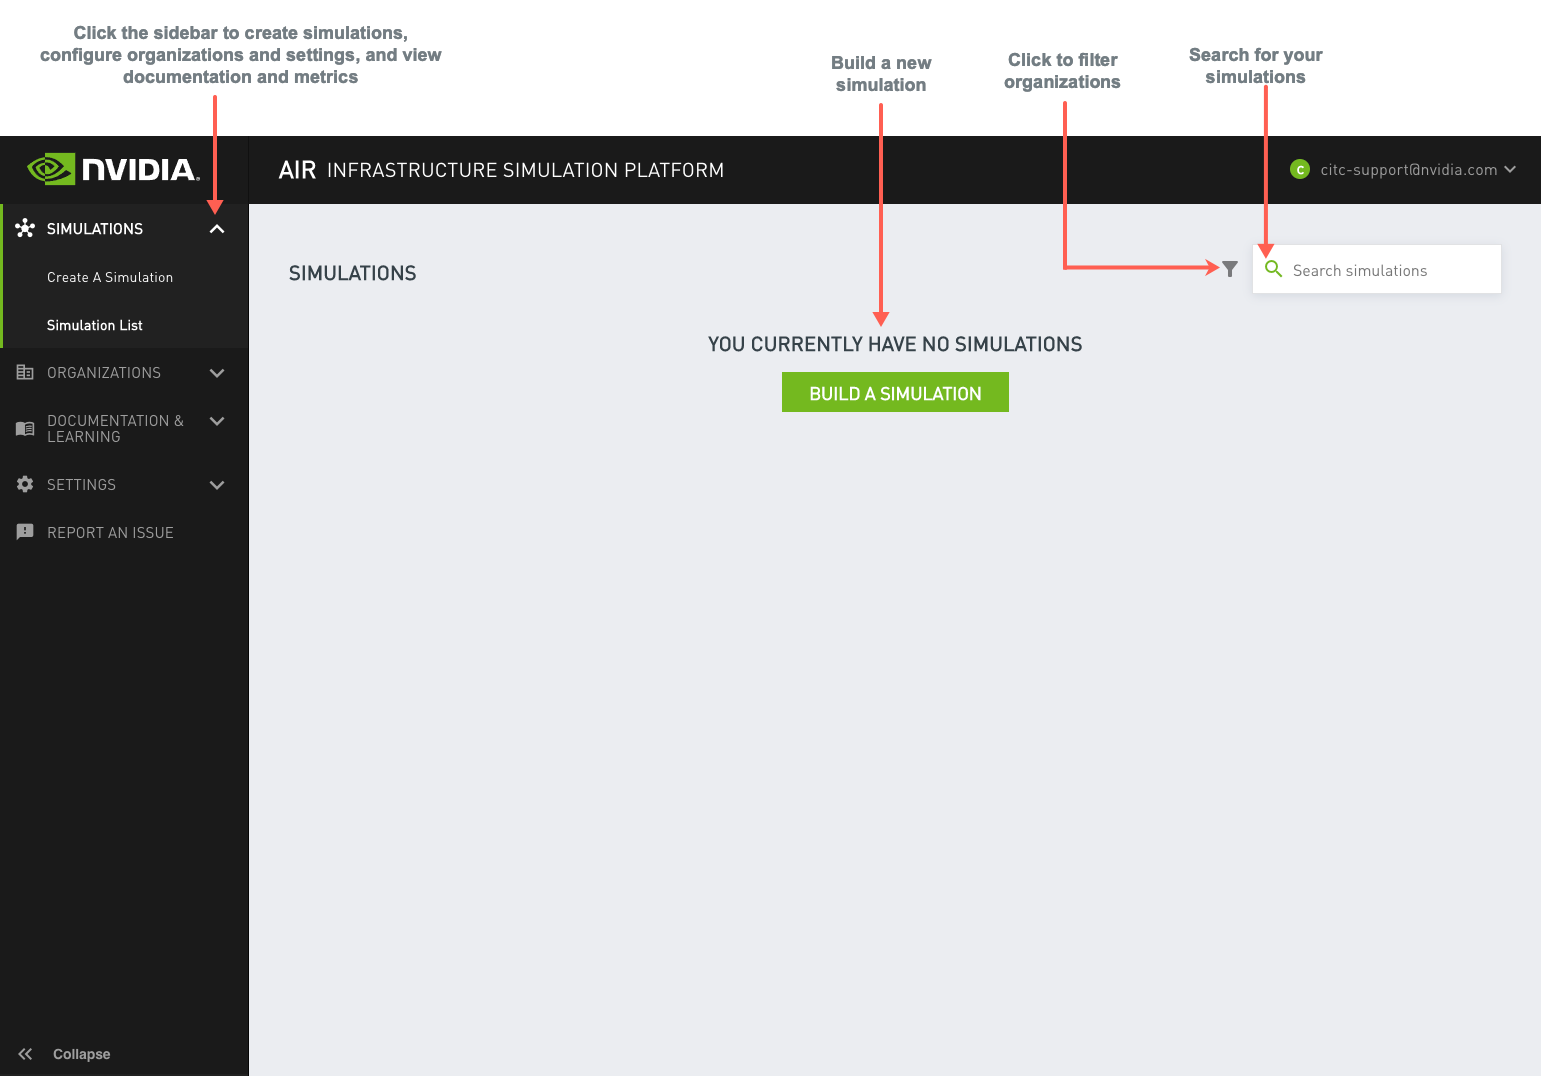
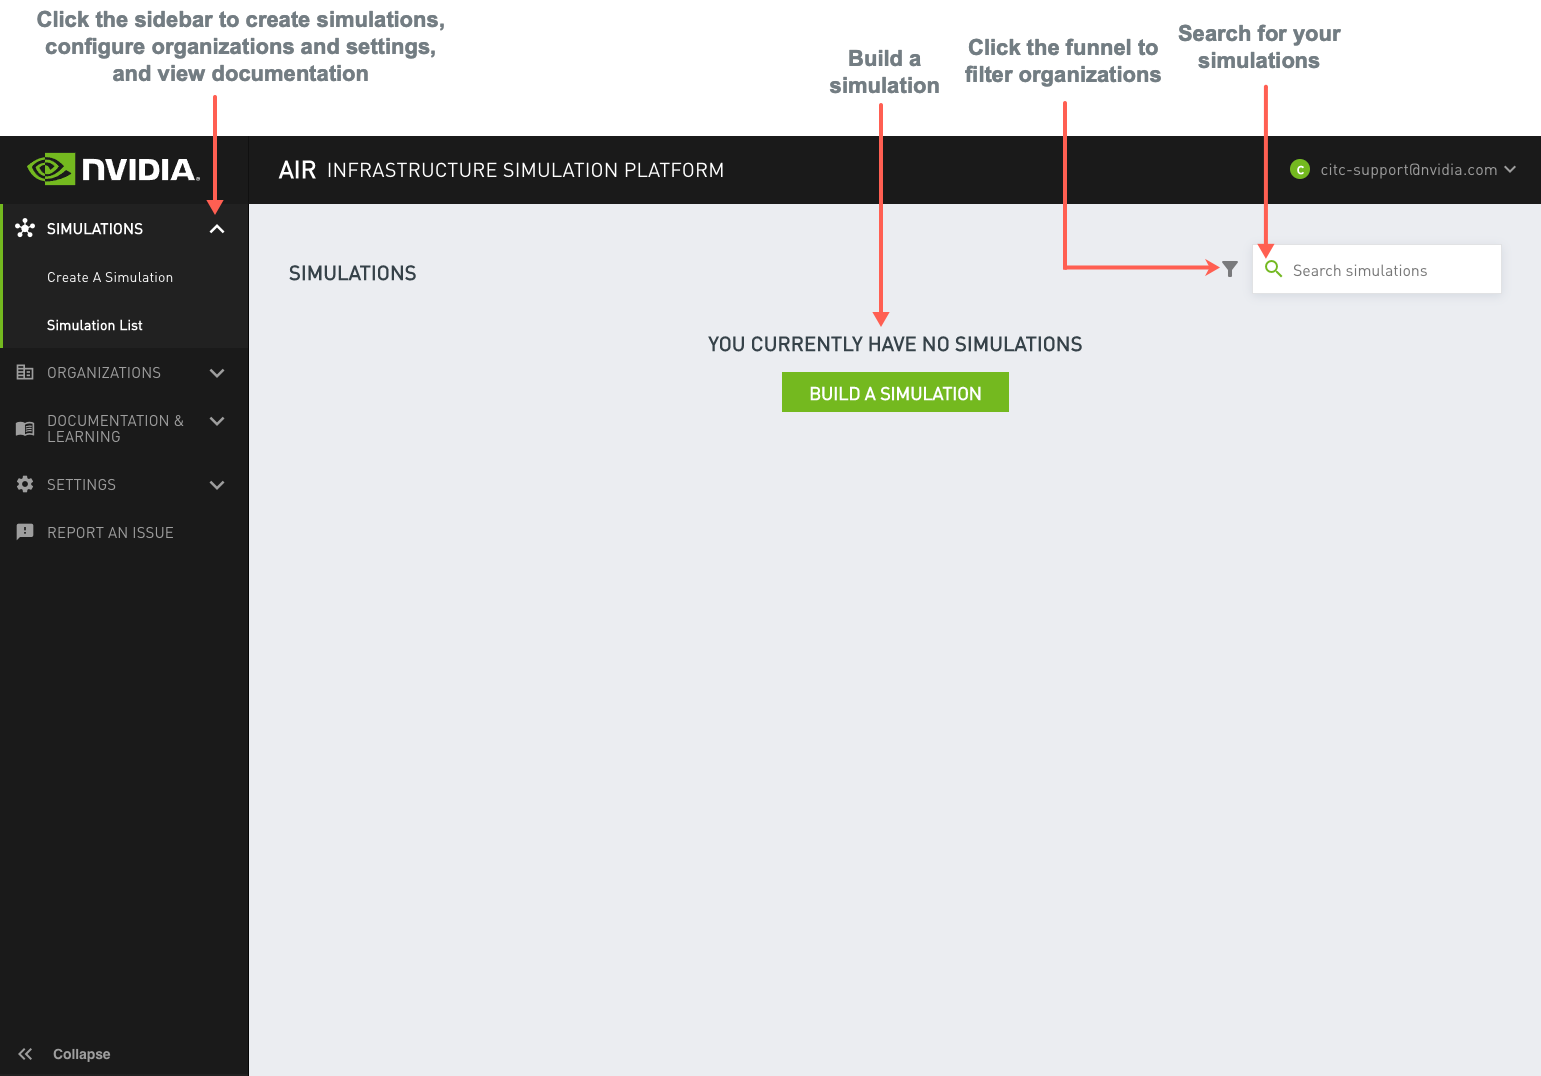
updates

Changed region(s): [[0.0311, 0.0, 0.2803, 0.092], [0.5295, 0.0, 0.8722, 0.092]]

diff --git a/content/guides/nvidia-air/Quick-Start.md b/content/guides/nvidia-air/Quick-Start.md
@@ -9,7 +9,7 @@ This quick start provides the basics so that you can get started with the NVIDIA
 
 ## Login
 
-NVIDIA Air uses the same credentials as the NVIDIA developer forums for account access. When the login page opens, enter your email address (the one you use for the forums or the one you intend to use to sign up) in the entry field and click **GET STARTED**:
+NVIDIA Air uses the same credentials as the NVIDIA developer forums for account access. When the login page opens, enter the email address you use for the forums or the one you intend to use to sign up, then click **GET STARTED**:
 
 {{<img src="/images/guides/nvidia-air/Login.png" width="800px">}}
 
@@ -24,26 +24,17 @@ After you log in, the NVIDIA Air landing page opens:
 {{<img src="/images/guides/nvidia-air/LandingPagewithCallouts.png" width="800px">}}
 
 The landing page provides the following options:
-
+- **Sidebar**: Provides links to create simulations, configure organizations and settings, and view documentation.
+<!--{{<img src="/images/guides/nvidia-air/SideBar.png">}}-->
 - **Filter Organizations**: If you belong to multiple organizations, you can filter your list of simulations based on organization.
-
-  {{<img src="/images/guides/nvidia-air/OrganizationDropdown.png" width="250px">}}
-
+<!--{{<img src="/images/guides/nvidia-air/OrganizationDropdown.png" width="250px">}}-->
 - **Search Simulations**: If you have more than one simulation, you can filter your simulations based on a text match.
+<!--{{<img src="/images/guides/nvidia-air/SearchSimulation.png">}}-->
+- **Build a Simulation**: If you have no simulations, click the **BUILD A SIMULATION** button. NVIDIA Air provides {{<link title="Pre-built Demos">}} to help you get started.<!--{{<img src="/images/guides/nvidia-air/BuildSim.png" width="300px">}}-->
 
-  {{<img src="/images/guides/nvidia-air/SearchSimulation.png">}}
+   A new window opens so that you can choose from different ways to build a simulation.
 
-- **Build a Simulation**: If you have no simulations, click the **BUILD A SIMULATION** button. NVIDIA Air provides {{<link title="Pre-built Demos">}} to help you get started.
-
-  {{<img src="/images/guides/nvidia-air/BuildSim.png" width="300px">}}
-
-  A new window opens so that you can choose from different ways to build a simulation.
-
-  {{<img src="/images/guides/nvidia-air/Catalog.png" width="800px">}}
-
-- **Sidebar**: The sidebar to the left provides a **Create a Simulation** link to create new simulations, links to documentation, and other helpful options.
-
-{{<img src="/images/guides/nvidia-air/SideBar.png">}}
+   {{<img src="/images/guides/nvidia-air/Catalog.png" width="800px">}}
 
 ## Simulation Views
 
@@ -57,7 +48,7 @@ The basic view of the simulation provides a graphical view of the topology.
 
 Click a node in the topology to open a console and connect to that node:
 
-{{<img src="/images/guides/nvidia-air/Console.png" width="800px">}}
+{{<img src="/images/guides/nvidia-air/Console1.png" width="800px">}}
 
 ### Advanced View
 
@@ -67,34 +58,30 @@ The advanced view has four different panes:
 
 - **Guided Tour** provides a detailed description of the simulation, complete with step-by-step instructions on running the demo infrastructure.
 - **Console** provides console connection to the simulation.
-- **Nodes** lists the nodes in the topology. The list shows the status, number of CPUs, and amount of memory for each node. You can take the following actions for each node:
-   - **Rebuild** restores the node to its default configuration.
-   - **Reset** issues a hard reset to the node.
-   - **View Console** connects to the node from a console.
+- **Nodes** lists the nodes in the topology; see {{<link url="#nodes" text="Nodes">}} below.
 - **Services** provides optional services, such as SSH; see {{<link url="#services" text="Services">}} below.
+
+#### Nodes
+
+The nodes list in the advanced view shows the status, number of CPUs, and amount of memory for each node. Click the **Actions** dropdown for a node and select:
+  - **Rebuild** to restore the node to its default configuration.
+  - **Reset** to issue a hard reset to the node.
+  - **View Console** to connect to the node from a console.
 
 #### Services
 
-Use the Services pane to create an external connection into the simulation if you prefer to:
+Use the Services pane in the advanced view to create an external connection into the simulation if you prefer to access the simulation environment using your local preferred SSH client, run Grafana on the [oob-mgmt-server](## "Out-of-band Management Server") and access the Grafana GUI externally, or set up SNMP polling from your local laptop into the simulation environment.
 
-- Access the simulation environment using your local preferred SSH client.
-- Run Grafana on the [oob-mgmt-server](## "Out-of-band Management Server") and access the Grafana GUI externally.
-- Set up SNMP polling from your local laptop into the simulation environment.
+To set up a service:
+1. Click the **+ Add Service** button to open the Service dialog:
 
-To set up a service, click the **+ Add Service** button.
+  {{<img src="/images/guides/nvidia-air/ServicesCreate.png" width="400px">}}
 
-{{<img src="/images/guides/nvidia-air/ServicesPanel.png" width="400px">}}
-
-The Create Service dialog opens:
-
-{{<img src="/images/guides/nvidia-air/ServicesCreate.png" width="400px">}}
-
-1. In the **Service Name** field, enter the name of the service. This is a free form text field.
-1. In the **Interface** dropdown, select the name of the interface in the simulation where the connection terminates. This is typically the eth0 interface on the oob-mgmt-server.
-1. In the **Service Type** dropdown, select the type of service you want to create. If you select *SSH*, *HTTP* or *HTTPS*, NVIDIA Air creates a hyperlink to the URL automatically in the Services panel. If you select *Other*, you can select any port, but there is no hyperlink. The hyperlink provides a quick way to copy and paste the service.
-1. In the **Service Port** field, specify the internal port where the service terminates.
-1. Click **Submit** to create the service.
-
+2. In the **Service Name** field, enter the name of the service. This is a free form text field.
+3. In the **Interface** dropdown, select the name of the interface in the simulation where the connection terminates. This is typically the eth0interface on the oob-mgmt-server.
+4. In the **Service Type** dropdown, select the type of service you want to create. If you select *SSH*, *HTTP* or *HTTPS*, NVIDIA Air creates a hyperlink to the URL automatically in the Services panel. If you select *Other*, you can select any port, but there is no hyperlink. The hyperlink provides a quick way to copy and paste the service.
+5. In the **Service Port** field, specify the internal port where the service terminates.
+6. Click **Submit** to create the service.
 <!-- vale off -->
 The example below shows the creation of a service for TCP port 1022. The external port is 24886. Connecting to this service requires connecting to worker06.air.nvidia.com on TCP port 24886, which forwards and redirects to the oob-mgmt-server on TCP port 1022.
 <!-- vale on -->
@@ -102,7 +89,7 @@ The example below shows the creation of a service for TCP port 1022. The externa
 {{<img src="/images/guides/nvidia-air/ServicesCreated.png" width="400px">}}
 
 <!-- vale off -->
-The **ENABLE SSH** button populates the Services panel with an SSH session, providing a shortcut to enable inbound SSH to the oob-mgmt-server so that you can leverage your preferred local SSH client. SSH password authentication is disabled on the oob-mgmt-server by default; to use this feature, you must upload SSH keys to your user profile; see {{<link url="#user-settings" text="User Settings">}} below.
+The **ENABLE SSH** button populates the Services panel with an SSH session, which provides a shortcut to enable inbound SSH to the oob-mgmt-server. Use this shortcut to leverage your preferred local SSH client. SSH password authentication is disabled on the oob-mgmt-server by default. To use SSH password authentication, you must upload SSH keys to your user profile; see {{<link url="#user-settings" text="User Settings">}} below.
 <!-- vale on -->
 
 ## Log into Virtual Machines
@@ -173,10 +160,10 @@ From the NVIDIA Air landing page, you can manage your simulations.
 
 {{<img src="/images/guides/nvidia-air/ManagingSimwithCallouts.png" width="800px">}}
 
- There are three options for each public simulation:
+ Each public simulation has three options:
 - **Power On or Off** wakes the simulation up or puts it to sleep.
 - **Edit** lets you change the simulation name and organization, and set the simulation to never expire or sleep.
-- **Delete** deletes the simulation.
+- **Delete** removes the simulation.
 
 ## User Settings
 
@@ -205,6 +192,6 @@ The **SSH Keys** tab is where you can upload your public SSH key.
 
 {{<img src="/images/guides/nvidia-air/UserSSHKeysTab.png" width="200px">}}
 
-These SSH keys upload automatically to the oob-mgmt-server. Creating a simulation and enabling SSH allows for passwordless authentication.
+The SSH keys upload automatically to the oob-mgmt-server. Creating a simulation and enabling SSH allows for passwordless authentication.
 
 {{<img src="/images/guides/nvidia-air/UserSSHKeys.png" width="800px">}}
